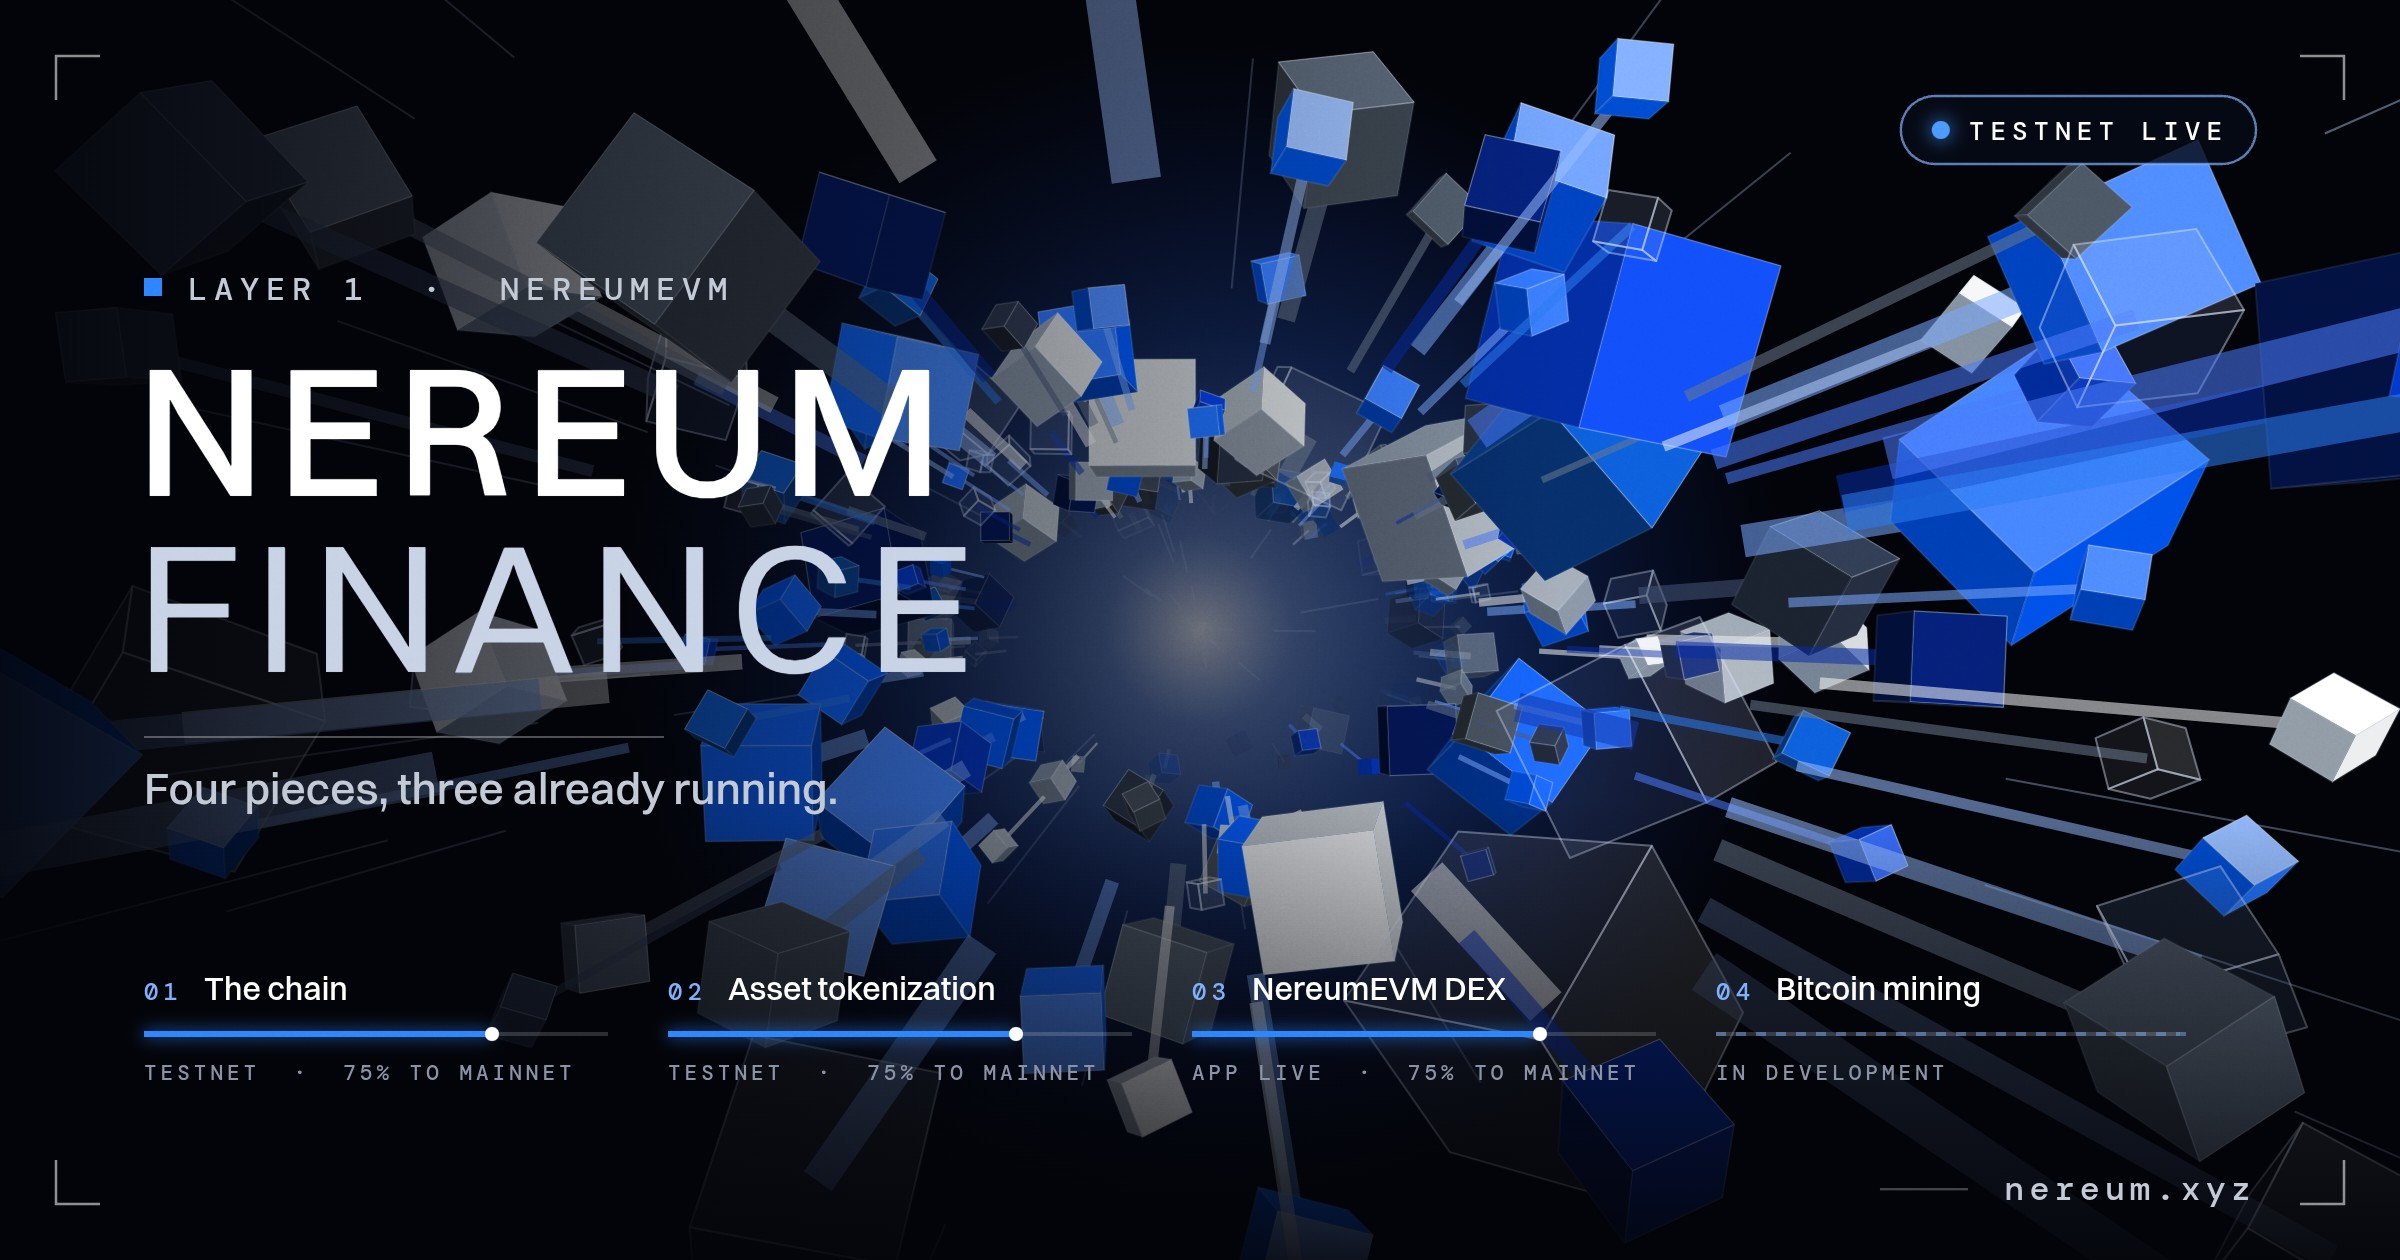
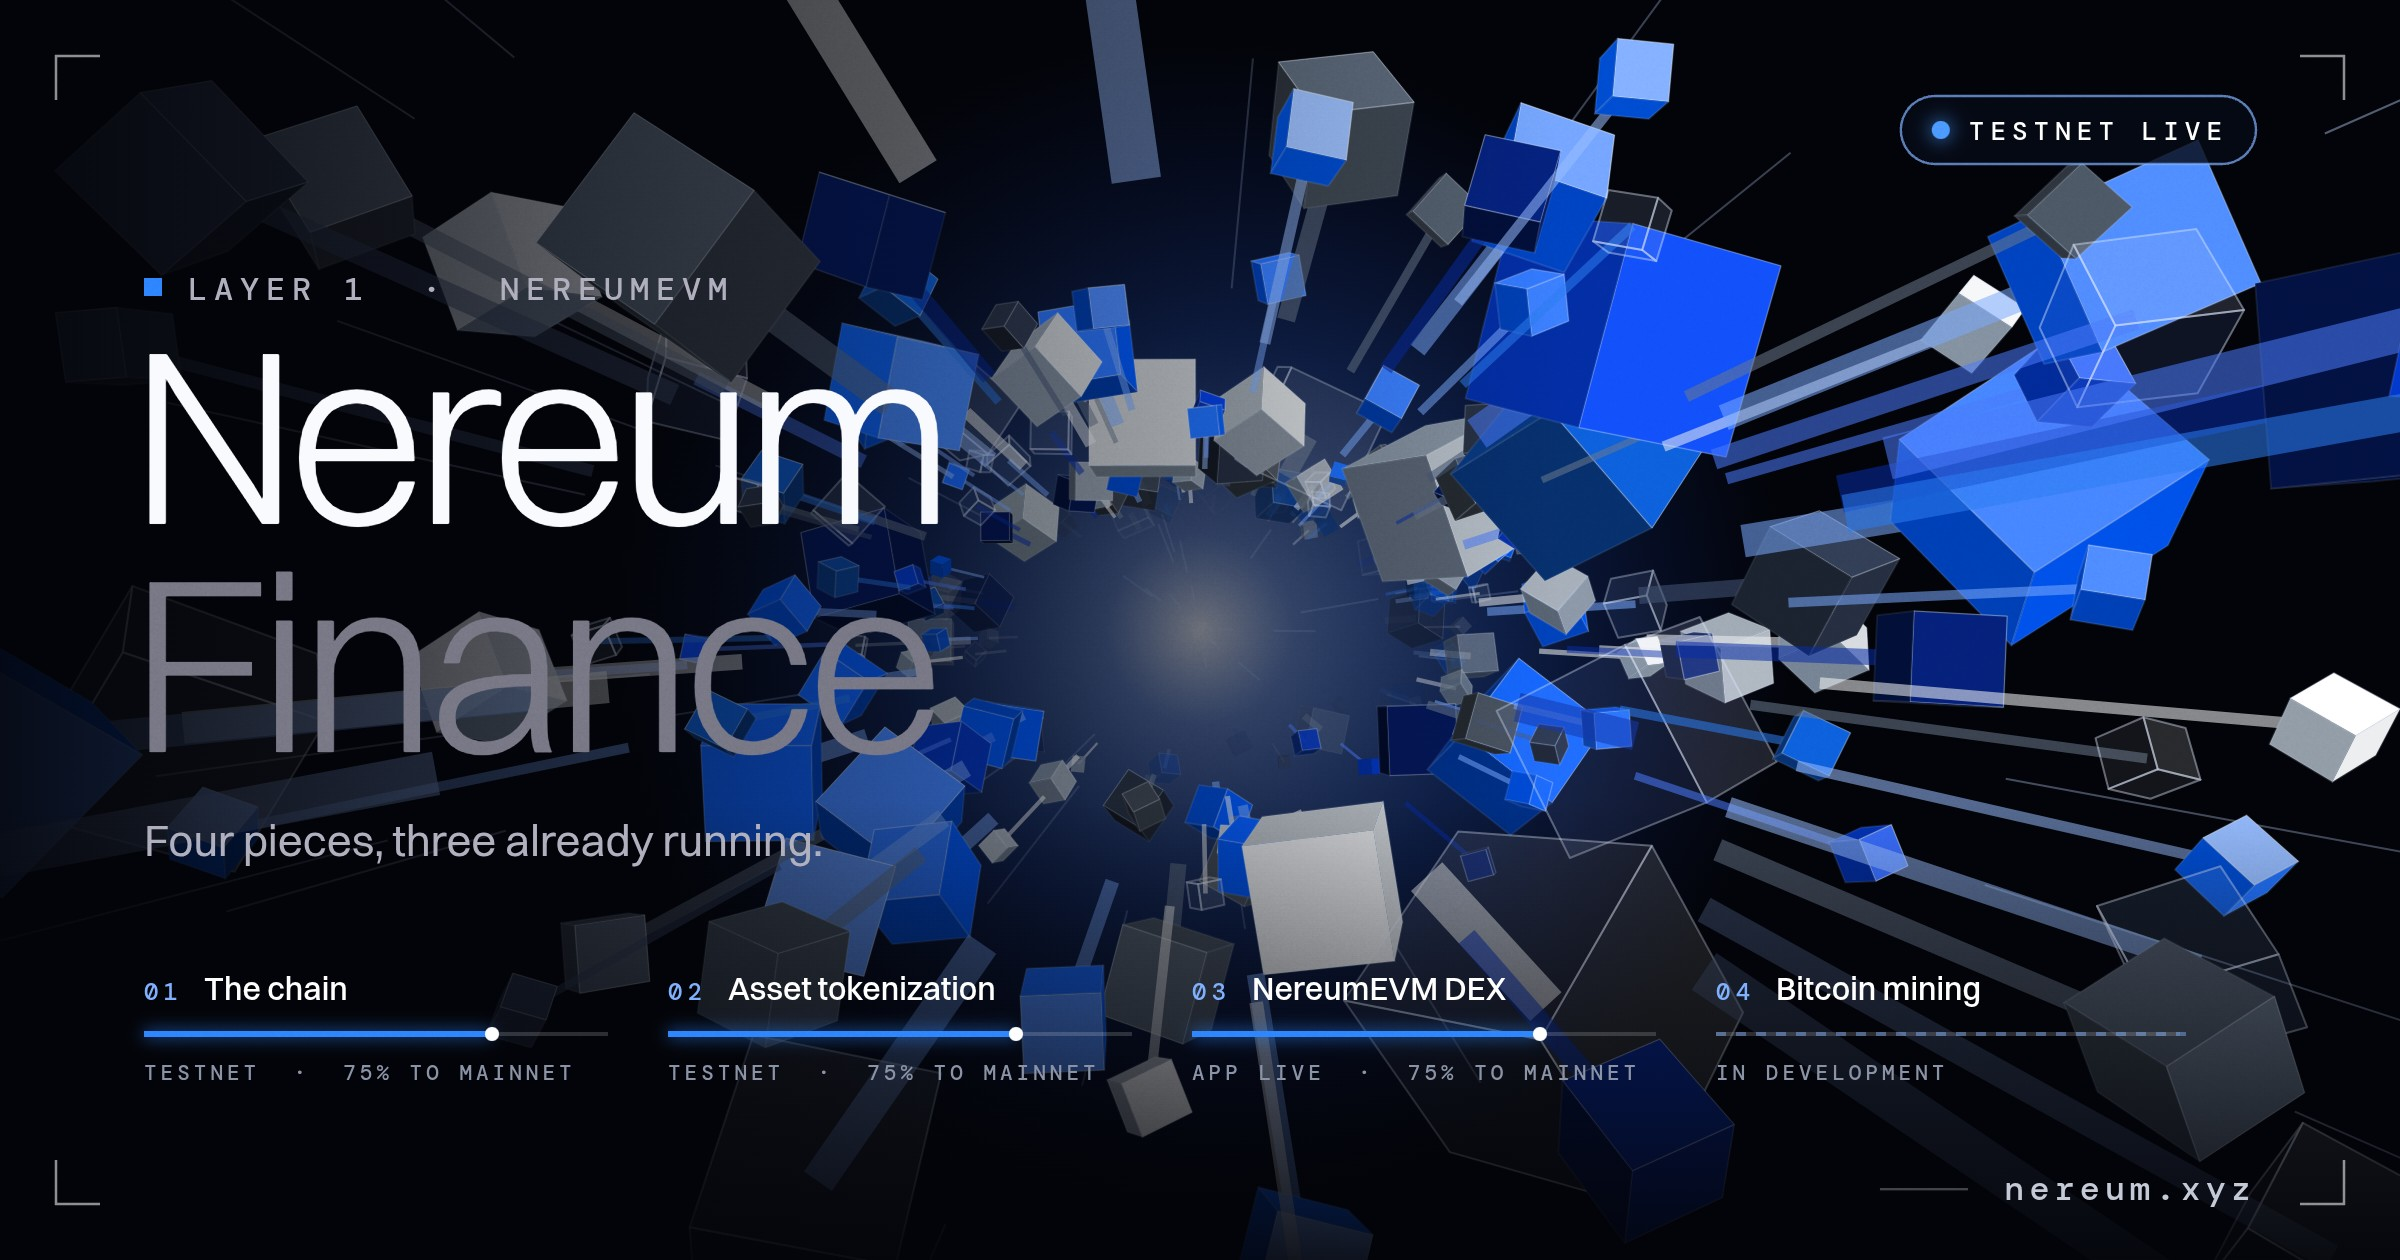
Web: la vista previa usa la letra de la web (Switzer ligera, apretada, segunda línea en gris)
Claude-Session: https://claude.ai/code/session_01LJT6Q3uWtj4pZqCrqcq3WD

Changed region(s): [[0.0625, 0.2786, 0.4062, 0.681]]

diff --git a/index.html b/index.html
@@ -155,8 +155,8 @@ El og:image:alt no es adorno: es lo que leen los lectores de pantalla. -->
 <meta property="og:url" content="https://nereum.xyz/">
 <meta property="og:title" content="Nereum — a blockchain for real-world assets">
 <meta property="og:description" content="Issue, move and settle real-world assets on a chain built for them. Seed Round open.">
-<meta property="og:image" content="https://nereum.xyz/og-home.jpg?v=1">
-<meta property="og:image:secure_url" content="https://nereum.xyz/og-home.jpg?v=1">
+<meta property="og:image" content="https://nereum.xyz/og-home.jpg?v=2">
+<meta property="og:image:secure_url" content="https://nereum.xyz/og-home.jpg?v=2">
 <meta property="og:image:type" content="image/jpeg">
 <meta property="og:image:width" content="2400">
 <meta property="og:image:height" content="1260">
@@ -165,7 +165,7 @@ El og:image:alt no es adorno: es lo que leen los lectores de pantalla. -->
 <meta name="twitter:card" content="summary_large_image">
 <meta name="twitter:title" content="Nereum — a blockchain for real-world assets">
 <meta name="twitter:description" content="Issue, move and settle real-world assets on a chain built for them. Seed Round open.">
-<meta name="twitter:image" content="https://nereum.xyz/og-home.jpg?v=1">
+<meta name="twitter:image" content="https://nereum.xyz/og-home.jpg?v=2">
 <meta name="twitter:image:alt" content="Nereum Finance — Layer 1 on NereumEVM. Four pieces, three already running.">
 <link rel="canonical" href="https://nereum.xyz/">
 <link rel="stylesheet" href="assets/fonts.css">
